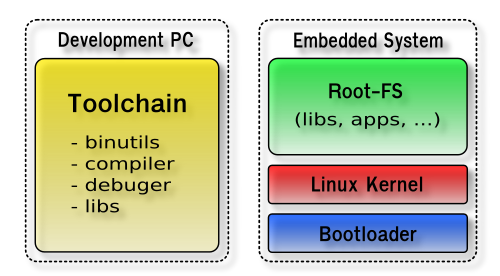
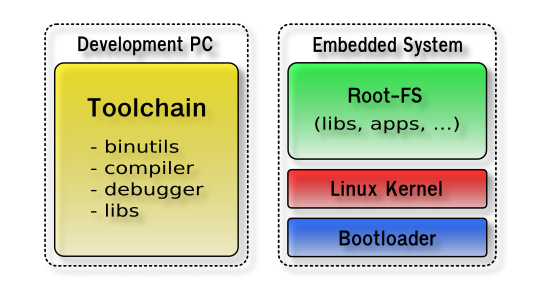
Update doc/images and prepare for release 0.1.1

diff --git a/README.md b/README.md
@@ -17,7 +17,7 @@ Building a bootable SD-Card image with Debian based embedded Linux OS for [i.MX]
 In Debian based Linux distributions just install the package [emlinux-tools_x.x.x_all.deb](https://github.com/molejar/emLinux/releases) from release section.
 
 ```bash
-   $ wget --quiet https://github.com/molejar/emLinux/releases/download/v0.1.0/emlinux-tools_0.1.0_all.deb
+   $ wget --quiet https://github.com/molejar/emLinux/releases/download/0.1.1/emlinux-tools_0.1.1_all.deb
    $ sudo dpkg -i emlinux-tools_0.1.0_all.deb
 ```
 
